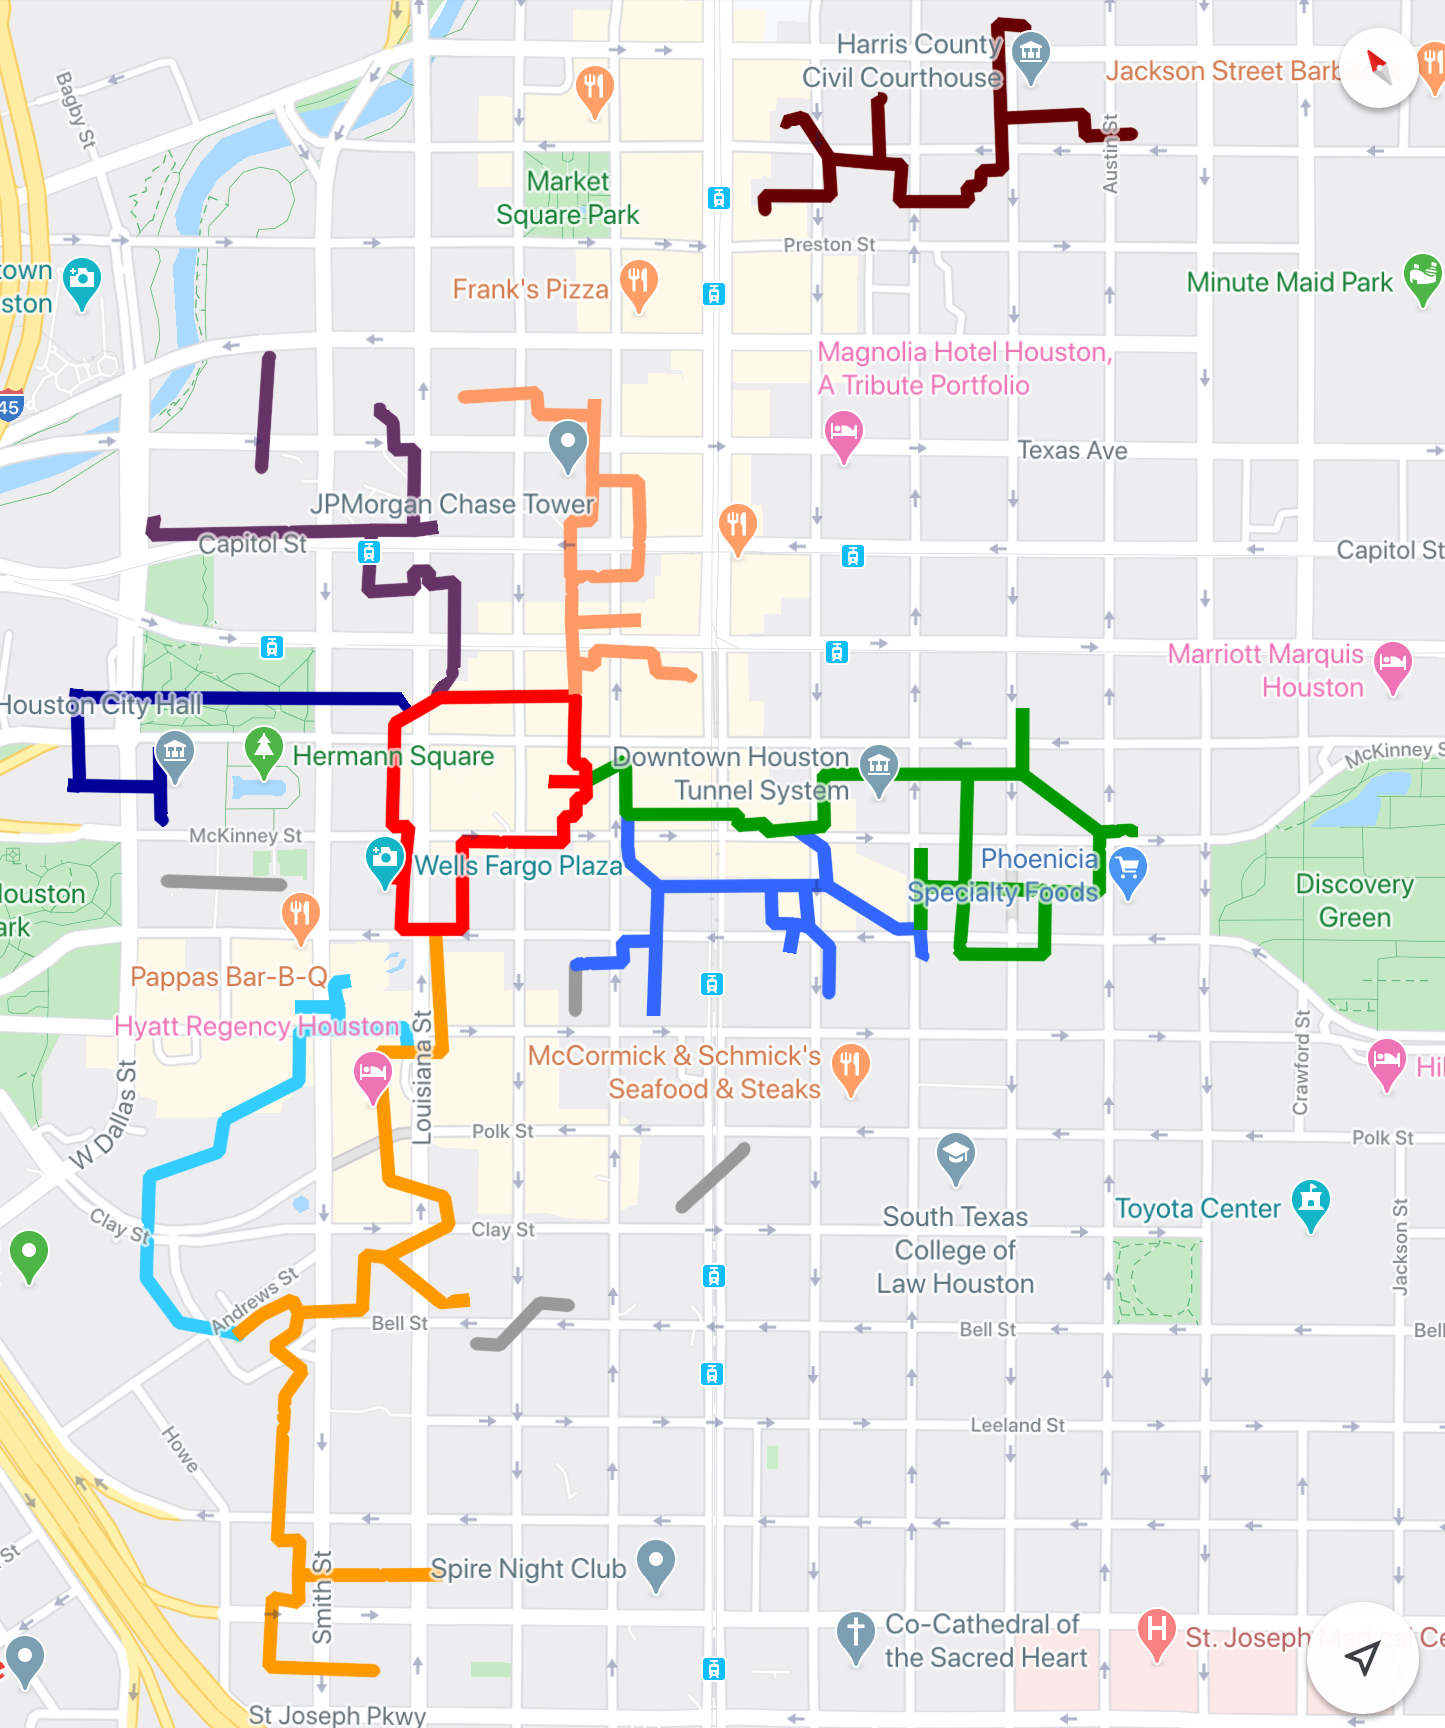
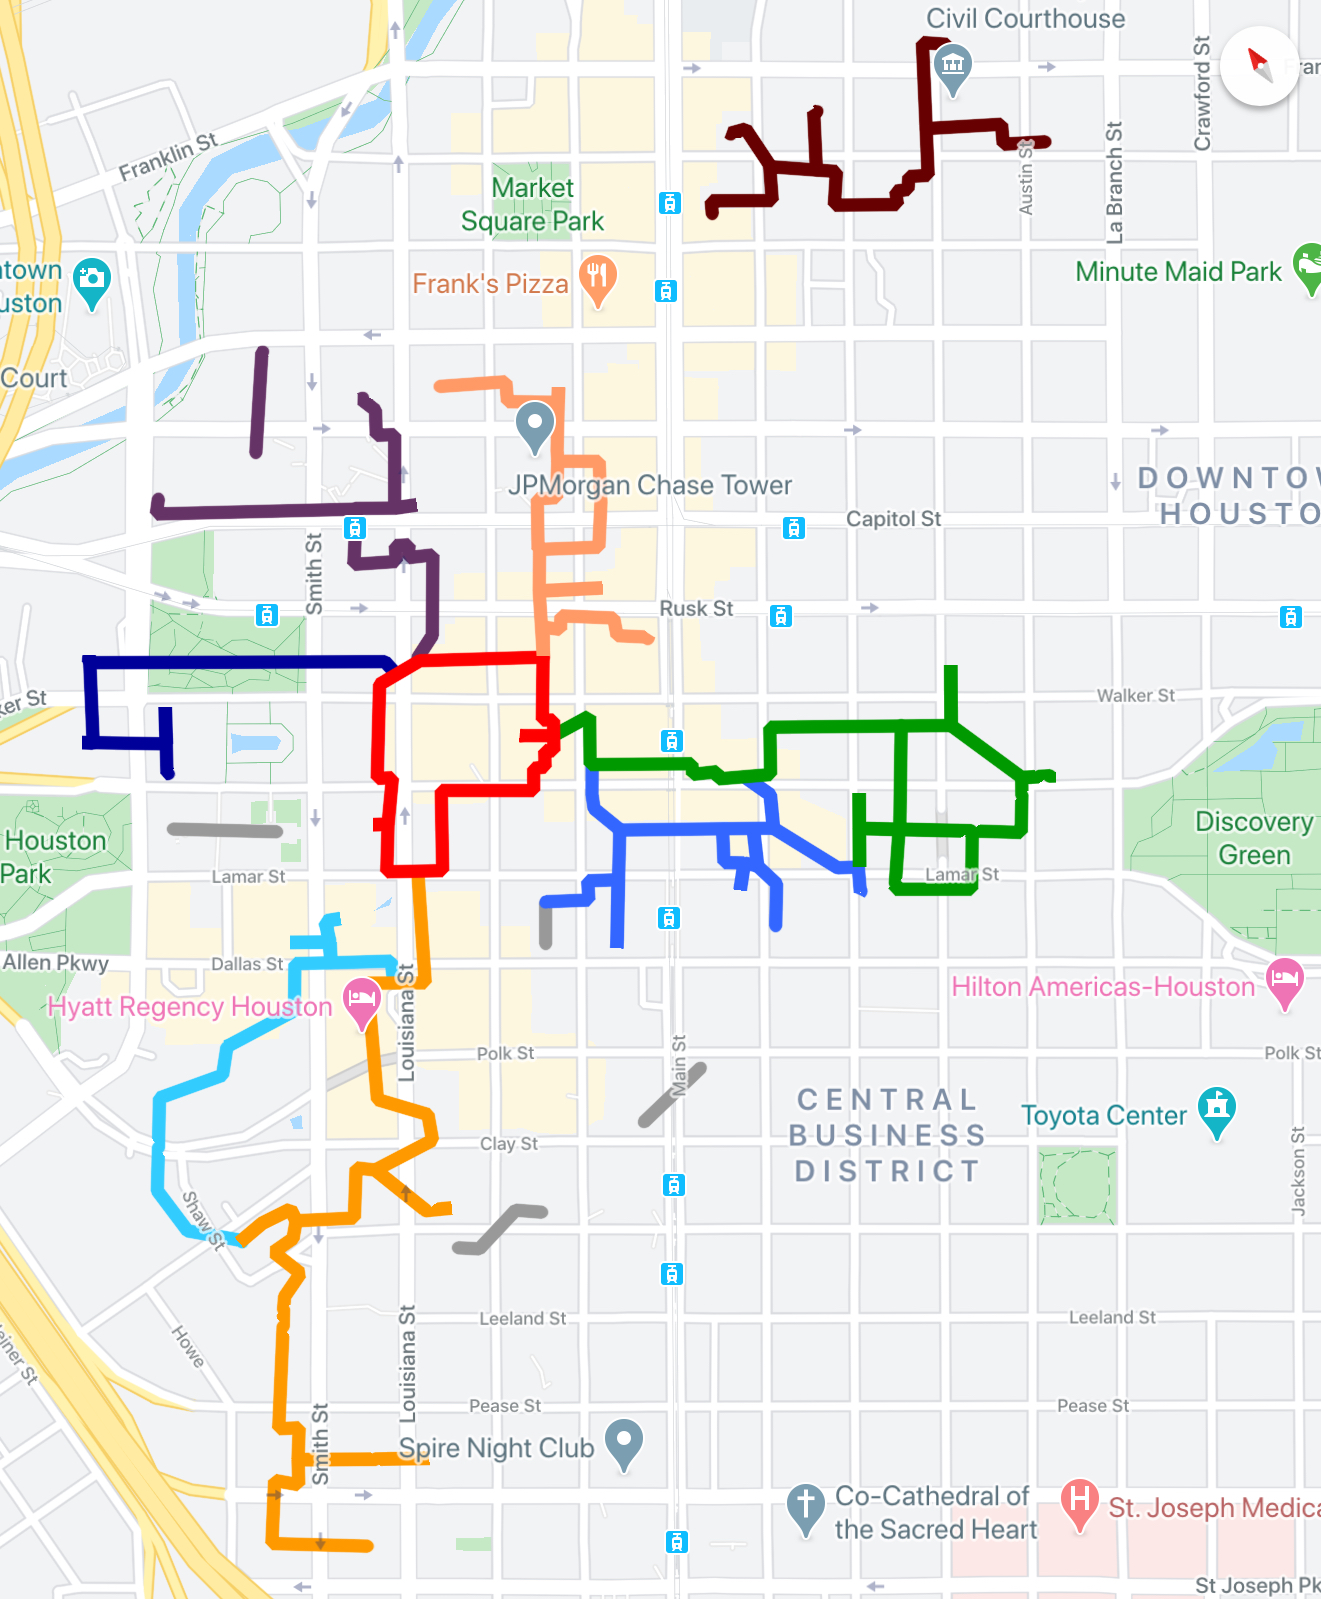
zoomable displayed and map image updated

diff --git a/client/screens/StillMapScreen.js b/client/screens/StillMapScreen.js
@@ -17,6 +17,7 @@ import ReactNativeZoomableView from '@dudigital/react-native-zoomable-view/src/R
 import { Ionicons } from '@expo/vector-icons';
 
 
+
 console.disableYellowBox = true;
 
 
@@ -37,10 +38,26 @@ class StillMapScreen extends React.Component {
       focus: {
         coord: [0.0],
         zoom: [0, 0]
-      }
+      },
+
+      currentZoom: 0,
+      iconZoomedSize:33,
 
     }
   }
+
+  logOutZoomState = (event, gestureState, zoomableViewEventObject) => {
+    // console.log('');
+    // console.log('');
+    // console.log('-------------');
+    // console.log('Event: ', event);
+    // console.log('GestureState: ', gestureState);
+    // console.log('ZoomableEventObject: ', zoomableViewEventObject);
+    // console.log('');
+    // console.log(`Zoomed from ${zoomableViewEventObject.lastZoomLevel} to  ${zoomableViewEventObject.zoomLevel}`);
+    this.setState({ currentZoom: zoomableViewEventObject.zoomLevel });
+  }
+
 
 
 
@@ -49,13 +66,19 @@ class StillMapScreen extends React.Component {
   render() {
 
 
+    console.log(this.state.currentZoom);
+    // this.setState({ iconZoomedSize: 33 / this.state.currentZoom });
+    // console.log('icon size', this.state.iconZoomedSize);
 
 
     return (
 
       <View style={styles.container}>
 
-        <View style={styles.zoomWrapper}>
+        <View style={styles.zoomWrapper}
+        // onTouchStart={(e) => {console.log('touchMove',e.nativeEvent)}}
+        >
+
           <ReactNativeZoomableView
             zoomEnabled={true}
             maxZoom={2}
@@ -63,10 +86,11 @@ class StillMapScreen extends React.Component {
             zoomStep={0.15}
             initialZoom={1.5}
             bindToBorders={true}
-            // onZoomAfter={this.logOutZoomState}
+            onZoomAfter={this.logOutZoomState}
             style={styles.zoomableView}
           >
-            <Ionicons name="ios-rocket" size={32} color="red" style={styles.icon} />
+            <Ionicons name="ios-rocket" size={33} color="red" style={styles.icon1} />
+            <Ionicons name="ios-pin" size={33} color="brown" style={styles.icon2} />
 
             <Image
               style={styles.image}
@@ -75,7 +99,13 @@ class StillMapScreen extends React.Component {
             />
           </ReactNativeZoomableView>
         </View>
-        <Text >{this.lastZoomLevel}</Text>
+
+
+
+        {/* Test Params--------------- */}
+        <Text >Test Zoom Level</Text>
+        {/* <Text >{logOutZoomState()}</Text> */}
+        <Text>{this.state.currentZoom}</Text>
 
       </View>
     );
@@ -123,13 +153,13 @@ const styles = StyleSheet.create({
 
   },
 
-  icon: {
+  icon1: {
 
 
     left: 200,
     top: 410,
     zIndex: 10,
-    
+
     // shadowColor: "#000",
     // shadowOffset: {
     //   width: 0,
@@ -139,6 +169,14 @@ const styles = StyleSheet.create({
     // shadowRadius: 5.46,
 
     // elevation: 9,
+  },
+
+  icon2: {
+    position: "absolute",
+    top: '53.5%',
+    left: '30%',
+    zIndex: 20,
+
   },
 
   testInfo: {
